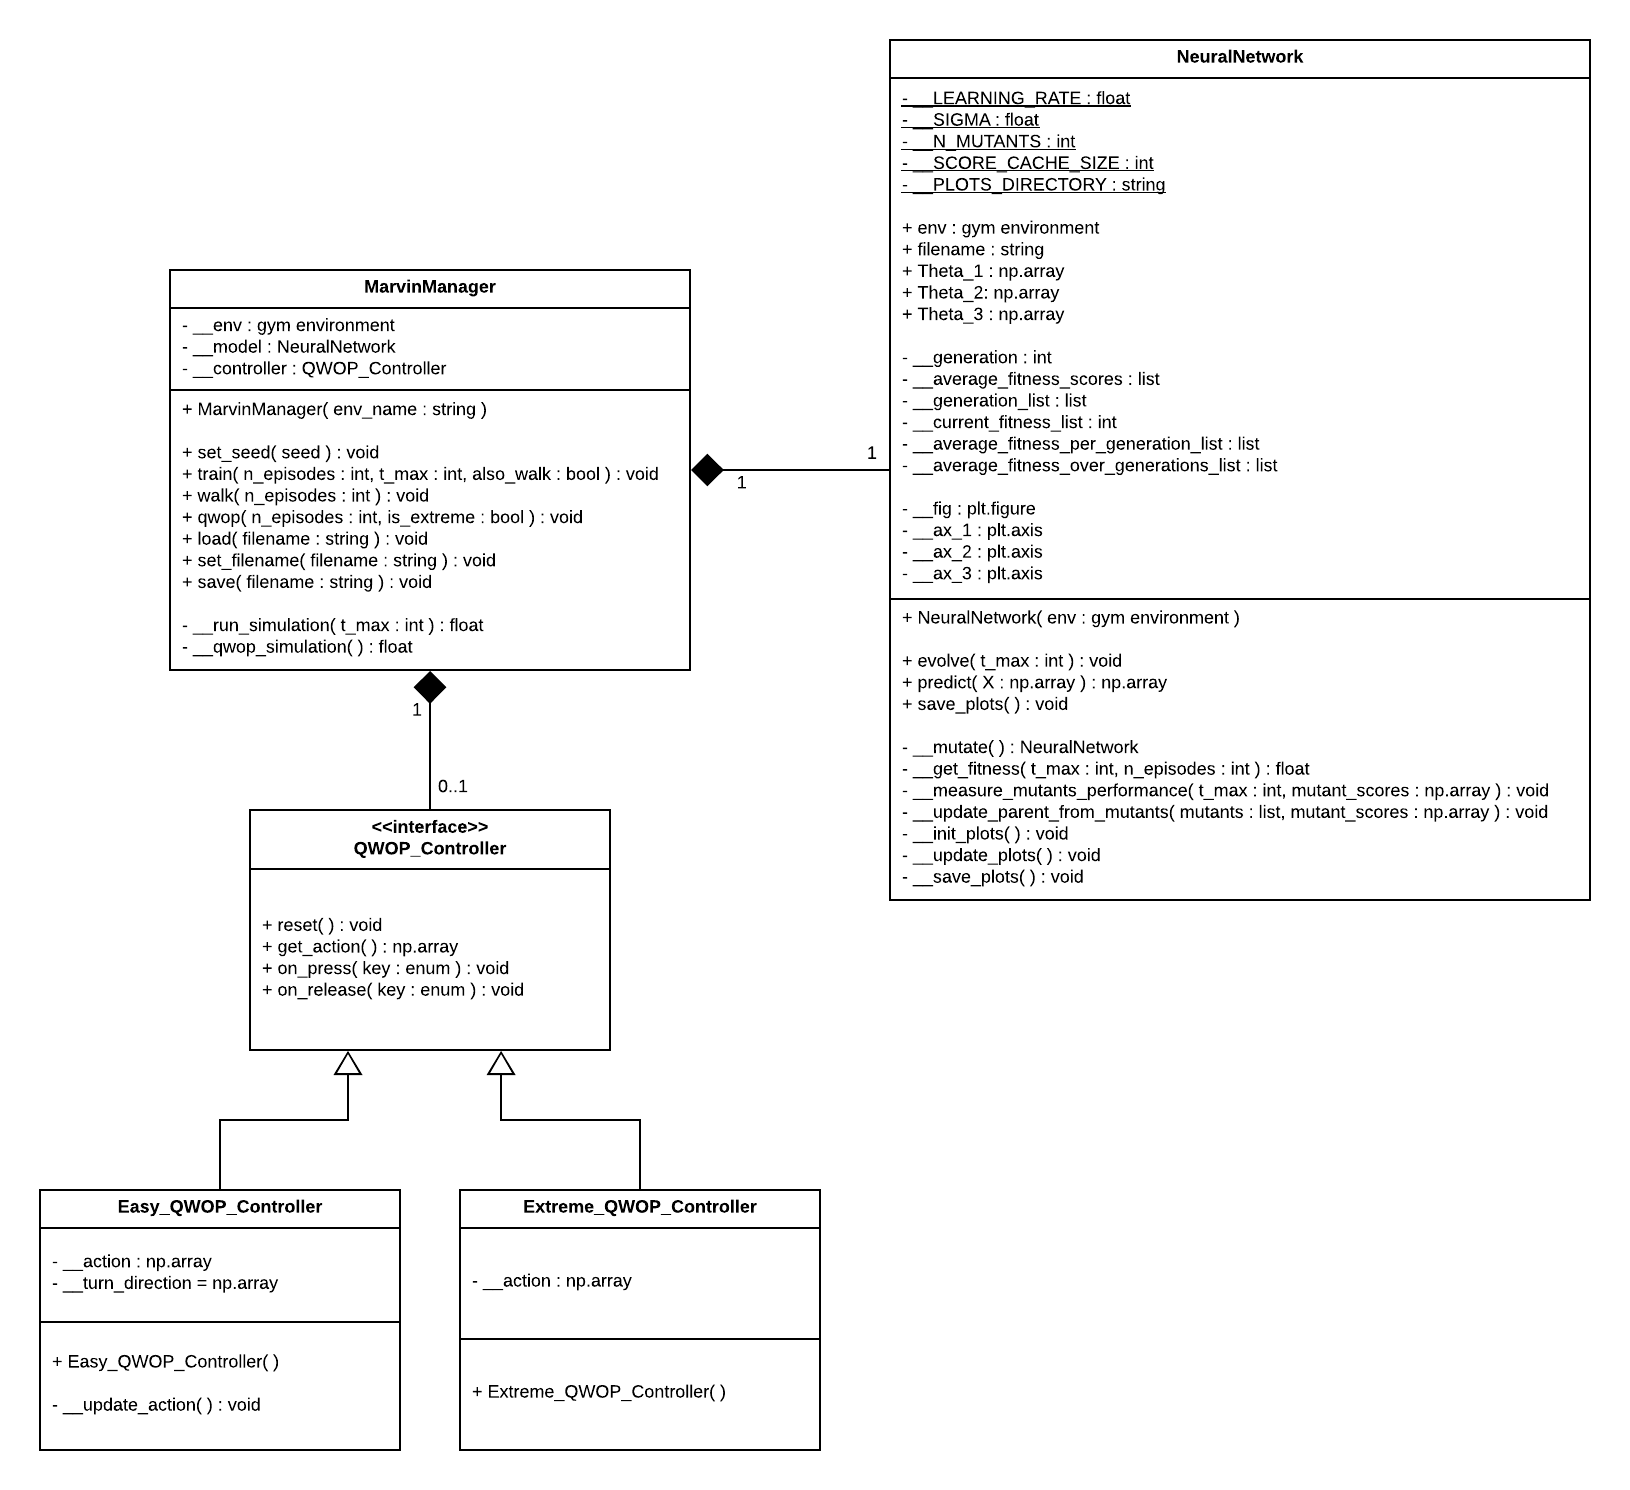
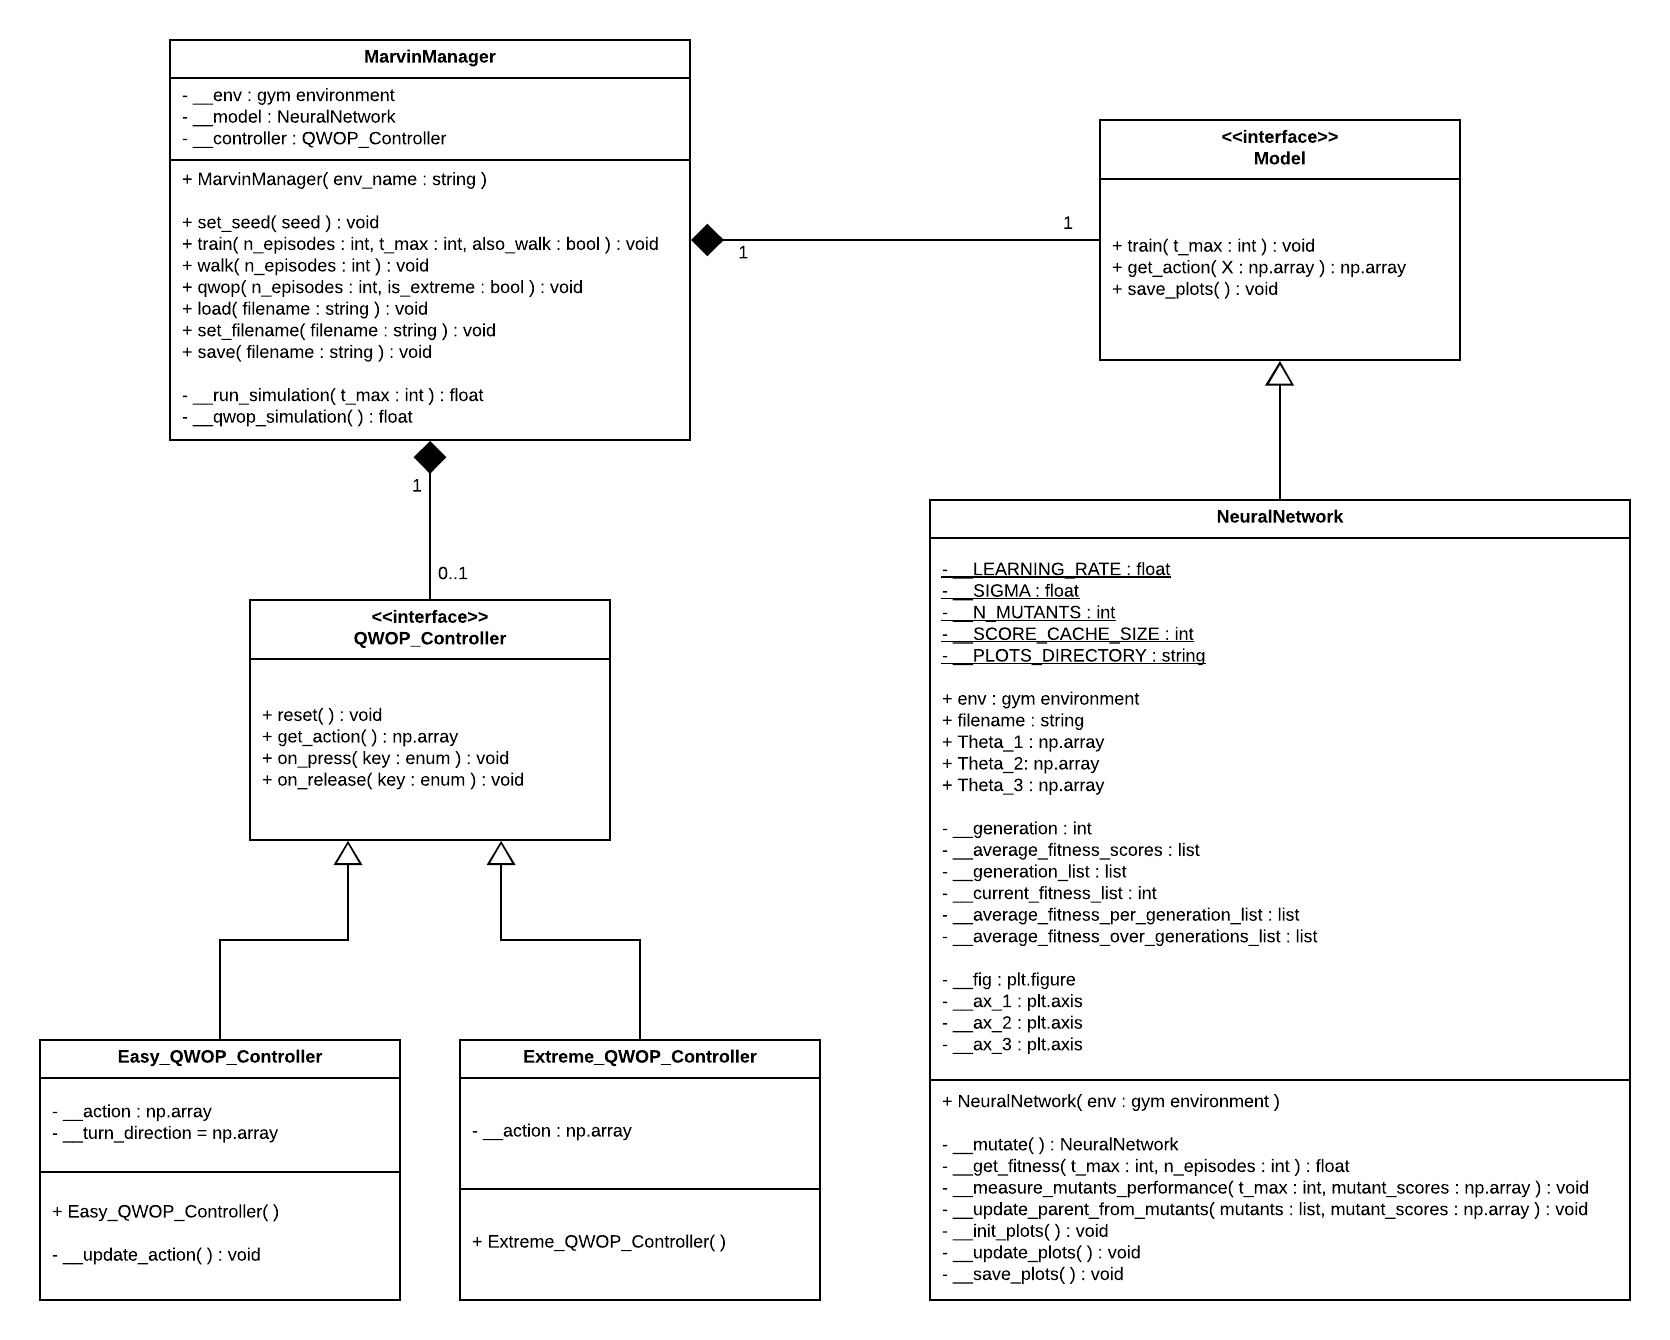
removed things that didn't work

diff --git a/marvin_manager.py b/marvin_manager.py
@@ -18,7 +18,7 @@ class MarvinManager:
 	def train(self, n_episodes, t_max, also_walk):
 		for episode in range(n_episodes):
 			print(Style.BRIGHT, 'Episode: ', episode + 1, Style.RESET_ALL)
-			self.__model.evolve(t_max)
+			self.__model.train(t_max)
 			if also_walk:
 				self.__run_simulation(t_max)
 		self.__model.save_plots()
@@ -35,7 +35,7 @@ class MarvinManager:
 		if t_max is None:
 			while True:
 				self.__env.render(mode='human')
-				action = self.__model.predict(state)
+				action = self.__model.get_action(state)
 				state, reward, done, info = self.__env.step(action)
 				total_reward += reward
 				if done:
@@ -43,7 +43,7 @@ class MarvinManager:
 		else:
 			for t in range(t_max):
 				self.__env.render(mode='human')
-				action = self.__model.predict(state)
+				action = self.__model.get_action(state)
 				state, reward, done, info = self.__env.step(action)
 				total_reward += reward
 				if done:

diff --git a/evolution.py b/evolution.py
@@ -44,7 +44,7 @@ class NeuralNetwork:
 
 	# input X is np.array of shape (24,)
 	# output is np.array of shape (4, )
-	def predict(self, X):
+	def get_action(self, X):
 		X = X[np.newaxis, :]
 
 		A_1 = np.tanh(X)
@@ -62,7 +62,7 @@ class NeuralNetwork:
 		A_4 = np.tanh(A_4)
 		return A_4.flatten()
 
-	def evolve(self, t_max):
+	def train(self, t_max):
 		self.__generation += 1
 		mutants = [ None ] * self.__N_MUTANTS
 		mutant_scores = np.empty(self.__N_MUTANTS)
@@ -84,7 +84,7 @@ class NeuralNetwork:
 		for episode in range(n_episodes):
 			state = self.env.reset()
 			for t in range(t_max):
-				action = self.predict(state)
+				action = self.get_action(state)
 				state, reward, done, info = self.env.step(action)
 				total_reward += reward
 				if done:
